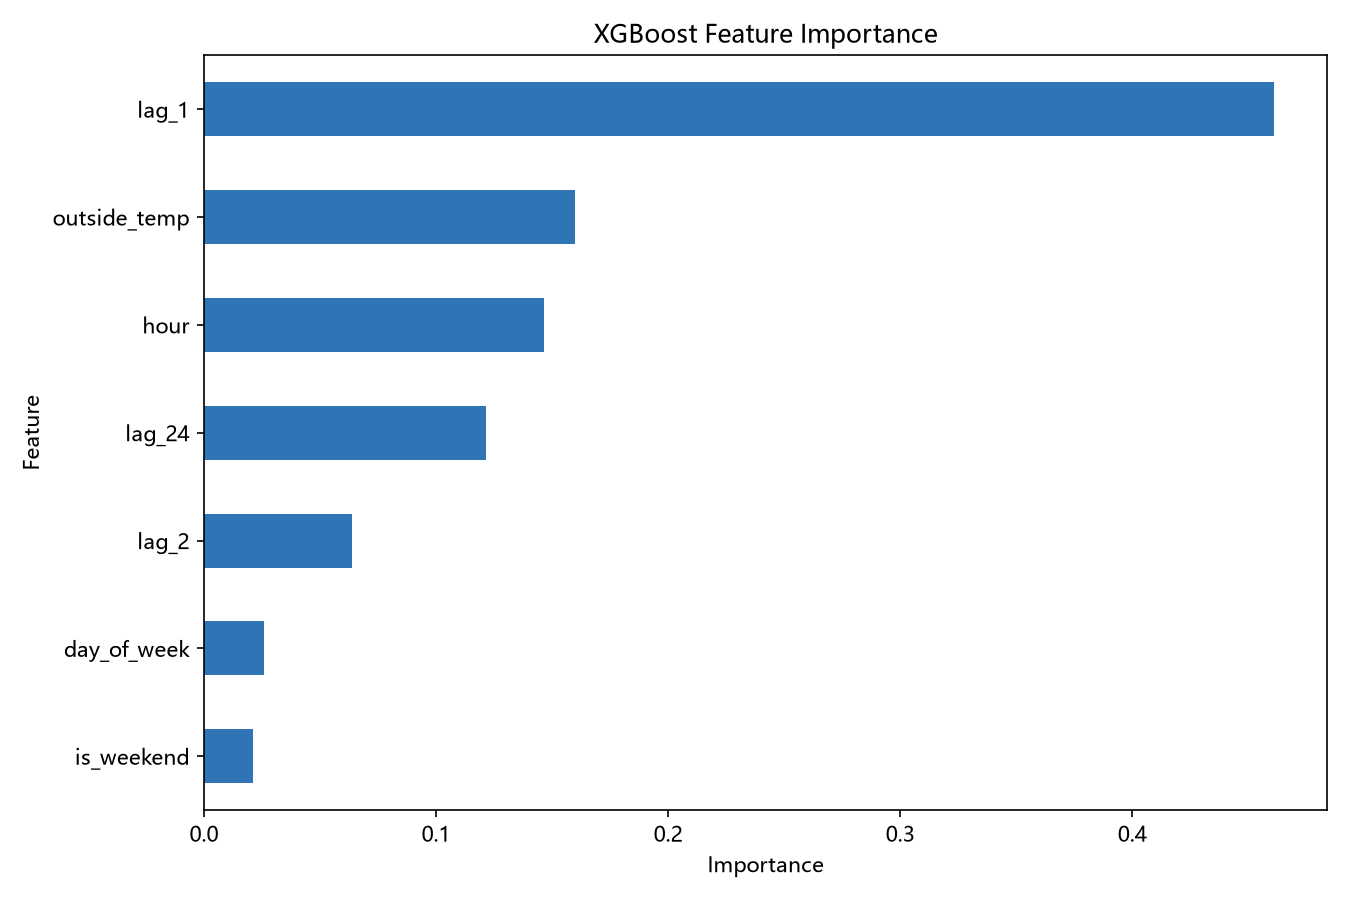
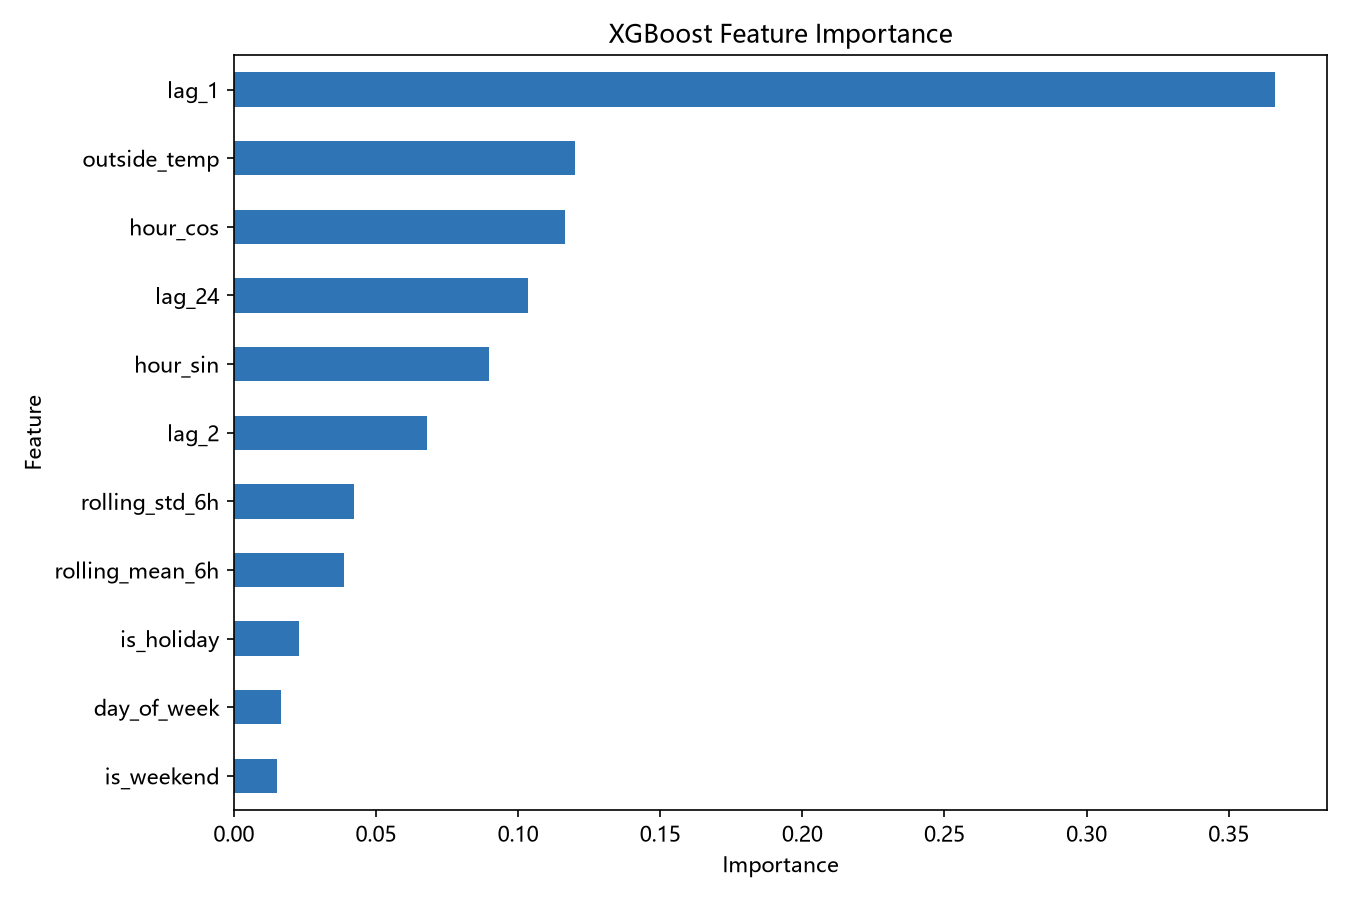
feat: add v1.1 forecasting features and evaluation

diff --git a/load_forecast_xgboost.py b/load_forecast_xgboost.py
@@ -19,6 +19,68 @@ PREFERRED_DATA_FILE = BASE_DIR / "heat_exchange_data_with_iforest.csv"
 FALLBACK_DATA_FILE = BASE_DIR / "heat_exchange_data.csv"
 OUTPUT_DIR = BASE_DIR / "docs"
 
+# Serbia non-working public and religious holidays covered by this dataset.
+# The list includes statutory carry-over days when a public holiday falls on Sunday.
+SERBIA_PUBLIC_HOLIDAYS = pd.to_datetime(
+    [
+        # 2017
+        "2017-01-01",
+        "2017-01-02",
+        "2017-01-03",
+        "2017-01-07",
+        "2017-02-15",
+        "2017-02-16",
+        "2017-04-14",
+        "2017-04-15",
+        "2017-04-16",
+        "2017-04-17",
+        "2017-05-01",
+        "2017-05-02",
+        "2017-11-11",
+        # 2018
+        "2018-01-01",
+        "2018-01-02",
+        "2018-01-07",
+        "2018-02-15",
+        "2018-02-16",
+        "2018-04-06",
+        "2018-04-07",
+        "2018-04-08",
+        "2018-04-09",
+        "2018-05-01",
+        "2018-05-02",
+        "2018-11-11",
+        "2018-11-12",
+        # 2019
+        "2019-01-01",
+        "2019-01-02",
+        "2019-01-07",
+        "2019-02-15",
+        "2019-02-16",
+        "2019-04-26",
+        "2019-04-27",
+        "2019-04-28",
+        "2019-04-29",
+        "2019-05-01",
+        "2019-05-02",
+        "2019-11-11",
+        # 2020
+        "2020-01-01",
+        "2020-01-02",
+        "2020-01-07",
+        "2020-02-15",
+        "2020-02-16",
+        "2020-02-17",
+        "2020-04-17",
+        "2020-04-18",
+        "2020-04-19",
+        "2020-04-20",
+        "2020-05-01",
+        "2020-05-02",
+        "2020-11-11",
+    ]
+).normalize()
+
 
 def configure_matplotlib_font() -> None:
     """按字体名称查找系统中文字体，避免中文字符触发字体缺失警告。"""
@@ -69,18 +131,35 @@ def load_data() -> pd.DataFrame:
 def build_features(data: pd.DataFrame) -> tuple[pd.DataFrame, pd.Series]:
     """构造时间、滞后和气象特征。"""
     features = pd.DataFrame(index=data.index)
-    features["hour"] = data.index.hour
+    hour = data.index.hour
+    features["hour_sin"] = np.sin(2 * np.pi * hour / 24)
+    features["hour_cos"] = np.cos(2 * np.pi * hour / 24)
     features["day_of_week"] = data.index.dayofweek
     features["is_weekend"] = (data.index.dayofweek >= 5).astype(int)
     features["lag_1"] = data["heat_power"].shift(1)
     features["lag_2"] = data["heat_power"].shift(2)
     features["lag_24"] = data["heat_power"].shift(24)
+    shifted_heat_power = data["heat_power"].shift(1)
+    features["rolling_mean_6h"] = shifted_heat_power.rolling(
+        window=6, min_periods=1
+    ).mean()
+    features["rolling_std_6h"] = shifted_heat_power.rolling(
+        window=6, min_periods=1
+    ).std()
     features["outside_temp"] = data["outside_temp"]
+    features["is_holiday"] = data.index.normalize().isin(
+        SERBIA_PUBLIC_HOLIDAYS
+    ).astype(int)
 
-    # 仅对序列开头没有历史值的滞后特征补 0，避免丢失前 24 个样本。
-    features[["lag_1", "lag_2", "lag_24"]] = features[
-        ["lag_1", "lag_2", "lag_24"]
-    ].fillna(0)
+    # 仅使用历史数据构造滞后和滚动特征，避免将未来信息泄露到训练样本。
+    history_features = [
+        "lag_1",
+        "lag_2",
+        "lag_24",
+        "rolling_mean_6h",
+        "rolling_std_6h",
+    ]
+    features[history_features] = features[history_features].fillna(0)
     return features, data["heat_power"]
 
 
@@ -303,6 +382,26 @@ def main() -> None:
     plt.tight_layout()
     plt.savefig(OUTPUT_DIR / "winter_day_stable_heating_scatter.png", dpi=150)
     plt.close()
+
+    # 分层评估只改变指标切片，不改变模型训练和预测结果。
+    # 使用 y_true >= 1.0 与主 MAPE 口径保持一致，避免低负荷样本放大百分比误差。
+    normal_load_mask = y_test >= 1.0
+    test_day_of_week = pd.Series(y_test.index.dayofweek, index=y_test.index)
+    test_hour = pd.Series(y_test.index.hour, index=y_test.index)
+    temporal_slices = {
+        "工作日": test_day_of_week < 5,
+        "周末": test_day_of_week >= 5,
+        "白天（08-18时）": (test_hour >= 8) & (test_hour <= 18),
+        "夜间（19-07时）": (test_hour >= 19) | (test_hour <= 7),
+    }
+    print("\n按时间维度分层评估（y_true >= 1.0）:")
+    print(f"{'时段':<18}{'样本数':>10}{'MAPE':>14}")
+    for slice_name, slice_mask in temporal_slices.items():
+        evaluation_mask = normal_load_mask & slice_mask
+        slice_y_true = y_test.loc[evaluation_mask]
+        slice_y_pred = predictions[evaluation_mask.to_numpy()]
+        _, slice_mape, _ = calculate_metrics(slice_y_true, slice_y_pred)
+        print(f"{slice_name:<18}{len(slice_y_true):>10}{slice_mape:>13.2f}%")
 
     save_plots(model, list(features.columns), y_test, predictions)
     print(f"图表已保存到: {OUTPUT_DIR}")

diff --git a/README.md b/README.md
@@ -14,7 +14,7 @@
 
 ### 数据与目标
 
-原始数据来自 Kaggle 公开数据集 DHS Substation Data。本项目使用的 CSV 文件（`heat_exchange_data.csv` 及 `heat_exchange_data_with_iforest.csv`）由配套项目 [Heat-Exchange-Station-Anomaly-Detection](https://github.com/yyy2556/Heat-Exchange-Station-Anomaly-Detection/tree/main) 生成，读取时仅使用其中三列。你也可以将自己的换热站数据整理为相同格式后使用。
+原始数据来自 Kaggle 公开数据集 DHS Substation Data，对应塞尔维亚 Niš 的区域供热系统。本项目使用的 CSV 文件（`heat_exchange_data.csv` 及 `heat_exchange_data_with_iforest.csv`）由配套项目 [Heat-Exchange-Station-Anomaly-Detection](https://github.com/yyy2556/Heat-Exchange-Station-Anomaly-Detection/tree/main) 生成，读取时仅使用其中三列。你也可以将自己的换热站数据整理为相同格式后使用。
 
 - `heat_exchange_data.csv`：处理后的基础数据
 - `heat_exchange_data_with_iforest.csv`：增加孤立森林检测结果列的数据
@@ -31,13 +31,17 @@
 
 | 特征类别 | 特征 | 说明 |
 | --- | --- | --- |
-| 时间特征 | `hour` | 小时，0 到 23 |
+| 时间特征 | `hour_sin`、`hour_cos` | 小时的正余弦周期编码 |
 | 时间特征 | `day_of_week` | 星期几，0 到 6 |
 | 时间特征 | `is_weekend` | 是否周末，1 或 0 |
 | 滞后特征 | `lag_1`、`lag_2`、`lag_24` | 前 1、2、24 小时热功率 |
+| 滚动特征 | `rolling_mean_6h`、`rolling_std_6h` | 前 6 小时热功率的滚动均值和标准差 |
 | 气象特征 | `outside_temp` | 室外温度 |
+| 日历特征 | `is_holiday` | 塞尔维亚法定非工作节假日，1 或 0 |
 
-序列开头没有足够历史值的滞后特征使用 0 填充。数据按时间排序，并使用前 80% 训练、后 20% 测试，不随机打乱顺序，避免时间泄漏。
+序列开头没有足够历史值的滞后和滚动特征使用 0 填充。所有滞后和滚动特征使用 `shift()` 先排除当前时刻，确保训练时不引入未来信息。数据按时间排序，并使用前 80% 训练、后 20% 测试，不随机打乱顺序，避免时间泄漏。
+
+`is_holiday` 按数据覆盖年份（2017 至 2020）的塞尔维亚法定非工作节假日构造，包括新年、东正教圣诞节、国庆日、劳动节、东正教复活节和停战日，以及适用的周日顺延日。
 
 ### 模型
 
@@ -58,6 +62,8 @@ XGBRegressor(
 
 XGBoost 可以拟合特征与热负荷之间的非线性关系，并提供特征重要性，适合作为这个项目的可解释基线模型。
 
+特征重要性需要结合物理含义解读：如果 `lag_24` 或 `rolling_mean_6h` 位于 Top 1，它们通常分别表示前一天同期负荷的日周期惯性，或最近数小时负荷水平对当前热功率的影响。最终 Top 1 以当前版本实际生成的特征重要性图为准。
+
 ## 评估方法
 
 脚本统一输出 MAE、MAPE 和 sMAPE：
@@ -75,7 +81,9 @@ XGBoost 可以拟合特征与热负荷之间的非线性关系，并提供特征
 
 工况 D 用于观察业务核心时段的实际可用性，不代表模型整体泛化能力提升。
 
-## 本地运行结果示例
+脚本还会在 `y_true >= 1.0` 的统一口径下输出工作日、周末、白天（08:00 至 18:00）和夜间（19:00 至次日 07:00）的 MAPE，便于比较模型在不同运行时段的表现。
+
+## 运行结果示例
 
 以下是当前本地数据运行记录中的代表性结果，实际数值会随数据文件和运行环境变化：
 
@@ -85,6 +93,14 @@ XGBoost 可以拟合特征与热负荷之间的非线性关系，并提供特征
 | 采暖季 + 白天 + 稳定供热 | 401 | 19.15 kW | 16.79% | 16.07% |
 
 这些切片结果适合用于说明模型在核心业务工况下的表现，但不应被表述为全工况指标或生产性能承诺。
+
+## 可视化结果
+
+![特征重要性](docs/feature_importance.png)
+
+![预测值与真实值对比](docs/test_prediction_vs_actual.png)
+
+![采暖季白天稳定供热工况散点图](docs/winter_day_stable_heating_scatter.png)
 
 ## 环境与运行
 
@@ -134,24 +150,23 @@ project2/
 当前限制：
 
 - 使用固定 XGBoost 参数，尚未进行系统超参数搜索
-- 仅使用室外温度、时间特征和滞后负荷，未加入太阳辐射、风速等外部气象变量
-- 未使用滚动均值、滚动标准差和温度变化率等统计特征
+- 未加入太阳辐射、风速等外部气象变量
 - 工况切片用于业务分析，不等于分工况训练或整体泛化能力提升
 - 原始数据及衍生 CSV 的公开发布仍需遵守 Kaggle 数据集的许可证、署名和再分发条款
 
 后续可尝试：
 
-1. 增加 6 小时滚动均值和滚动标准差
-2. 使用 `sin/cos` 周期编码表达小时和星期周期
-3. 接入风速、太阳辐射等外部气象数据
-4. 比较全工况模型与采暖季/非采暖季分工况模型
+1. 接入风速、太阳辐射等外部气象数据
+2. 比较全工况模型与采暖季/非采暖季分工况模型
+3. 系统超参数搜索（GridSearchCV 或 Optuna）
+4. 加入温度变化率等派生特征
 
 ## 版本历史
 
 | 版本 | 日期 | 关键更新 |
 | --- | --- | --- |
 | v1.0 | 2026-08-11 | 完成 XGBoost 热负荷预测基线、时间序列特征、滞后特征和业务工况切片评估 |
-| v1.1 | 计划中 | 增加滚动统计特征、周期编码和外部气象变量 |
+| v1.1 | 2026-08-11 | 增加 6 小时滚动统计特征（均值/标准差）、小时正余弦周期编码、塞尔维亚节假日特征，以及工作日/周末/白天/夜间分层评估体系 |
 
 ## 许可证
 
